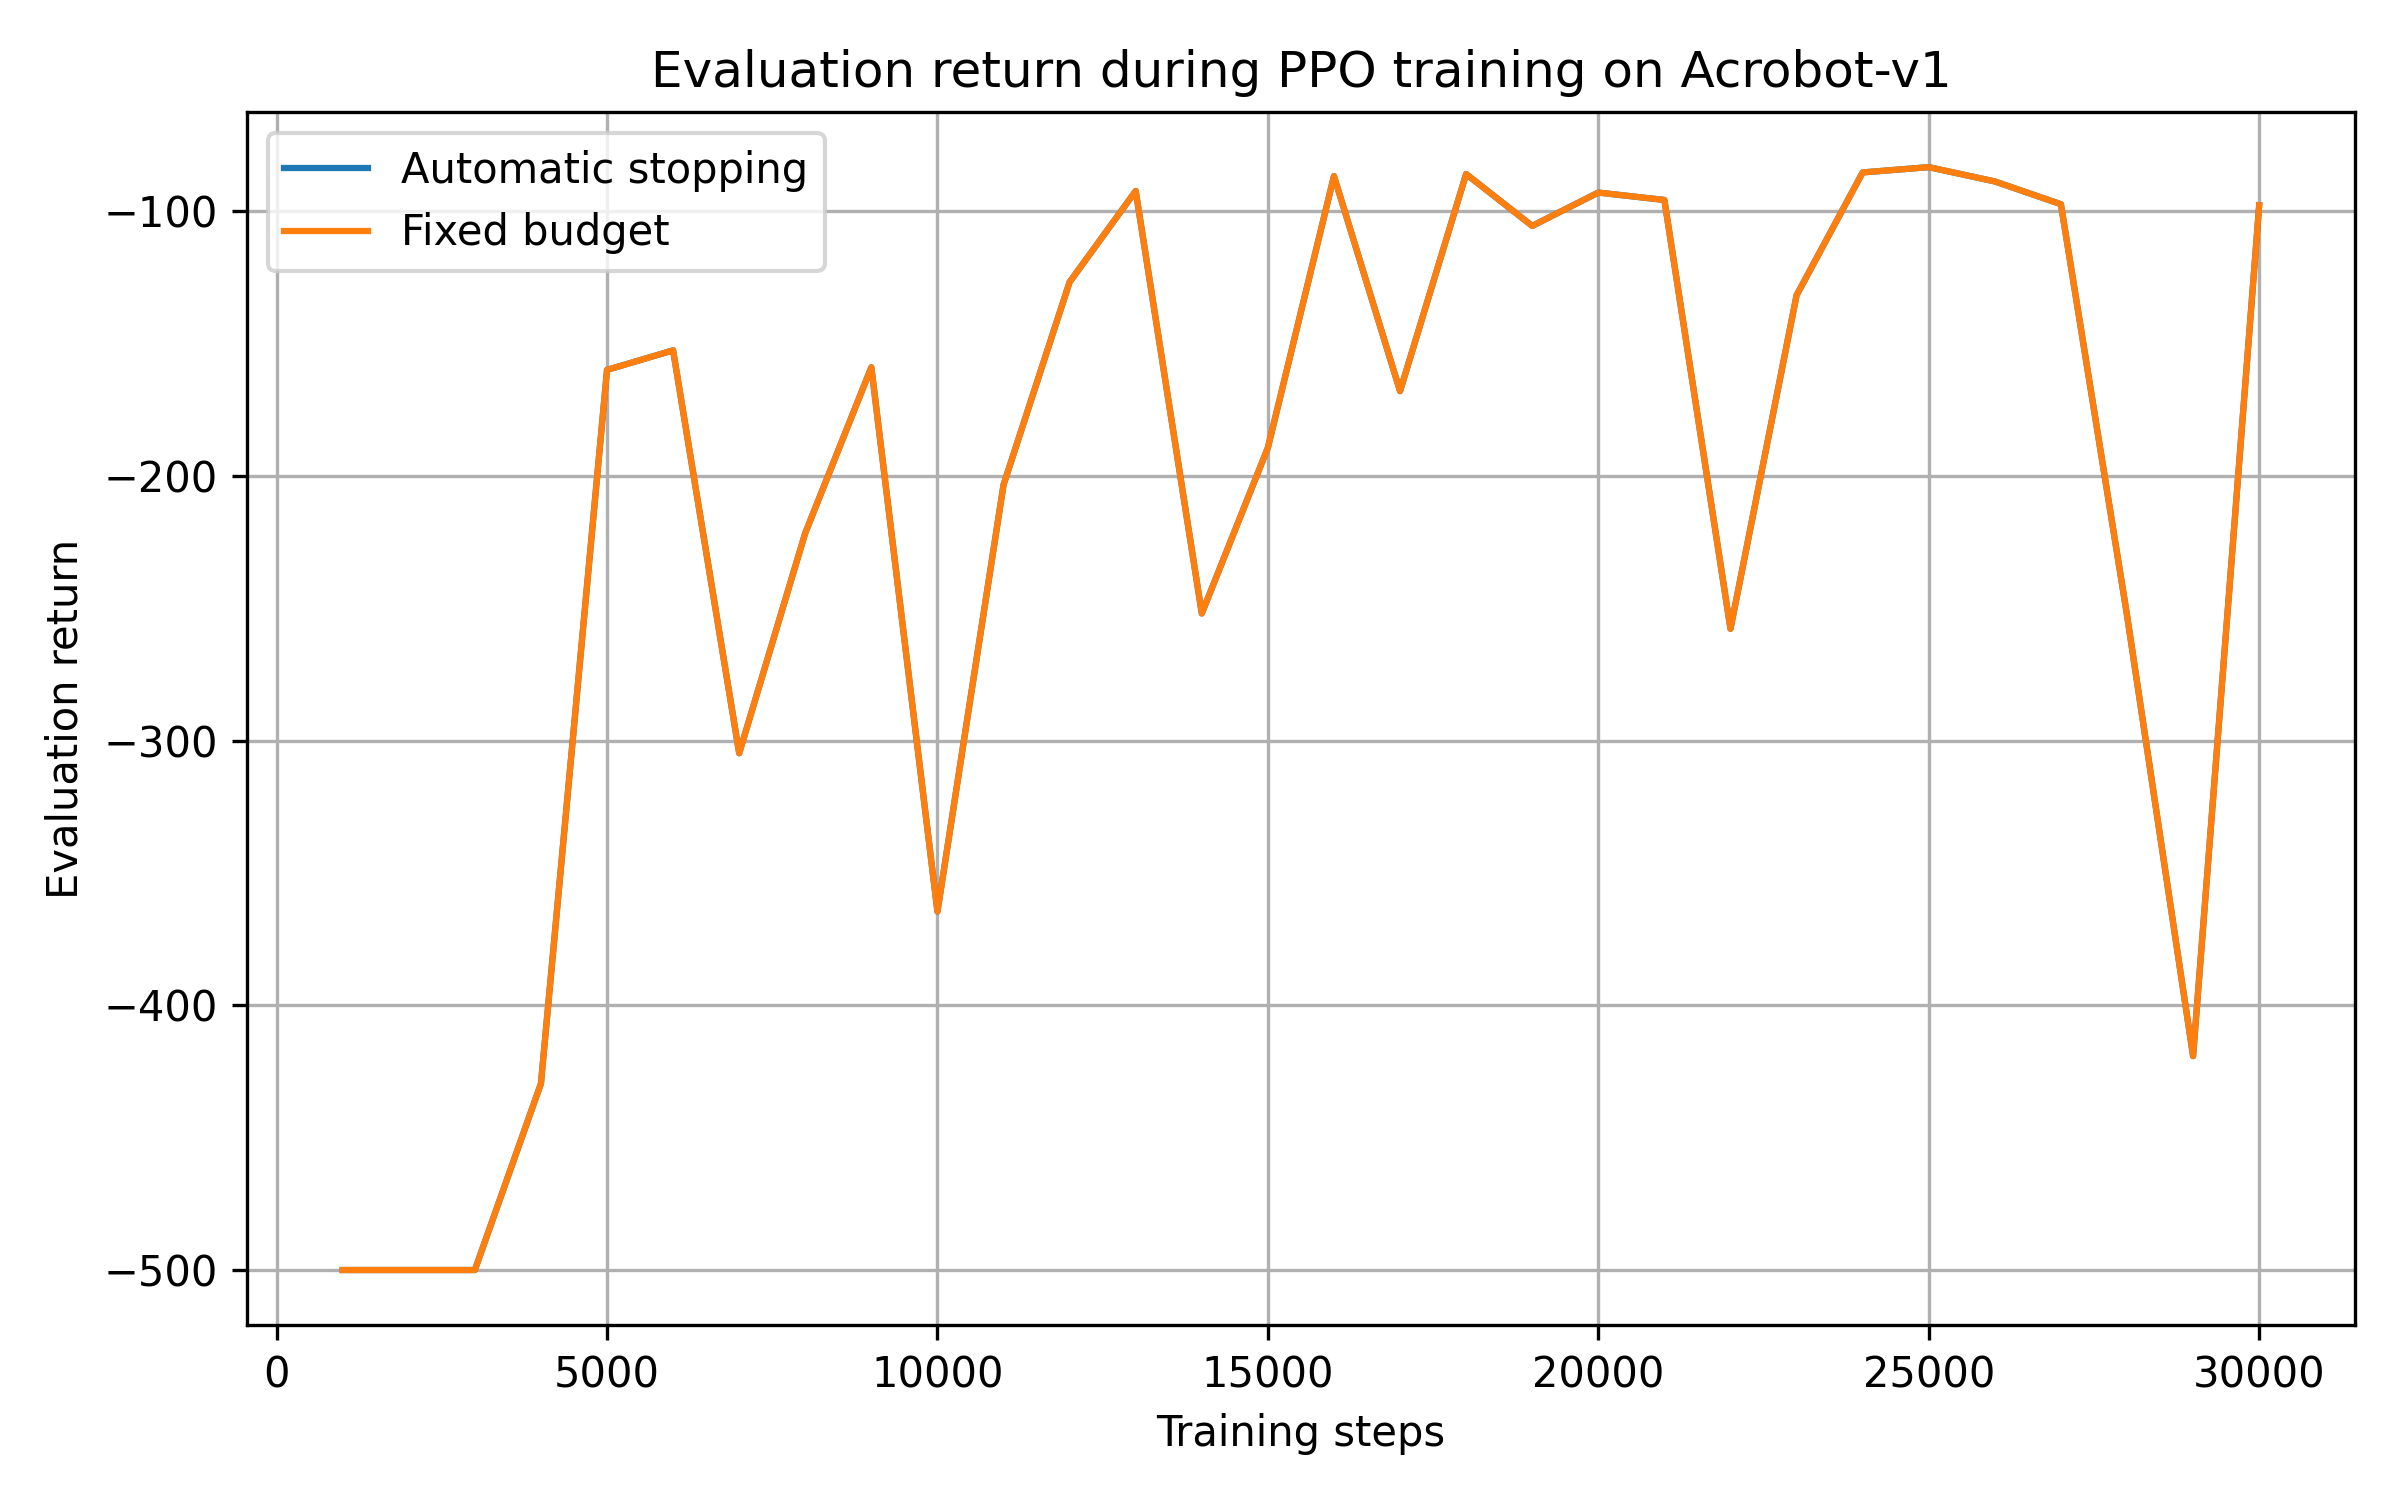
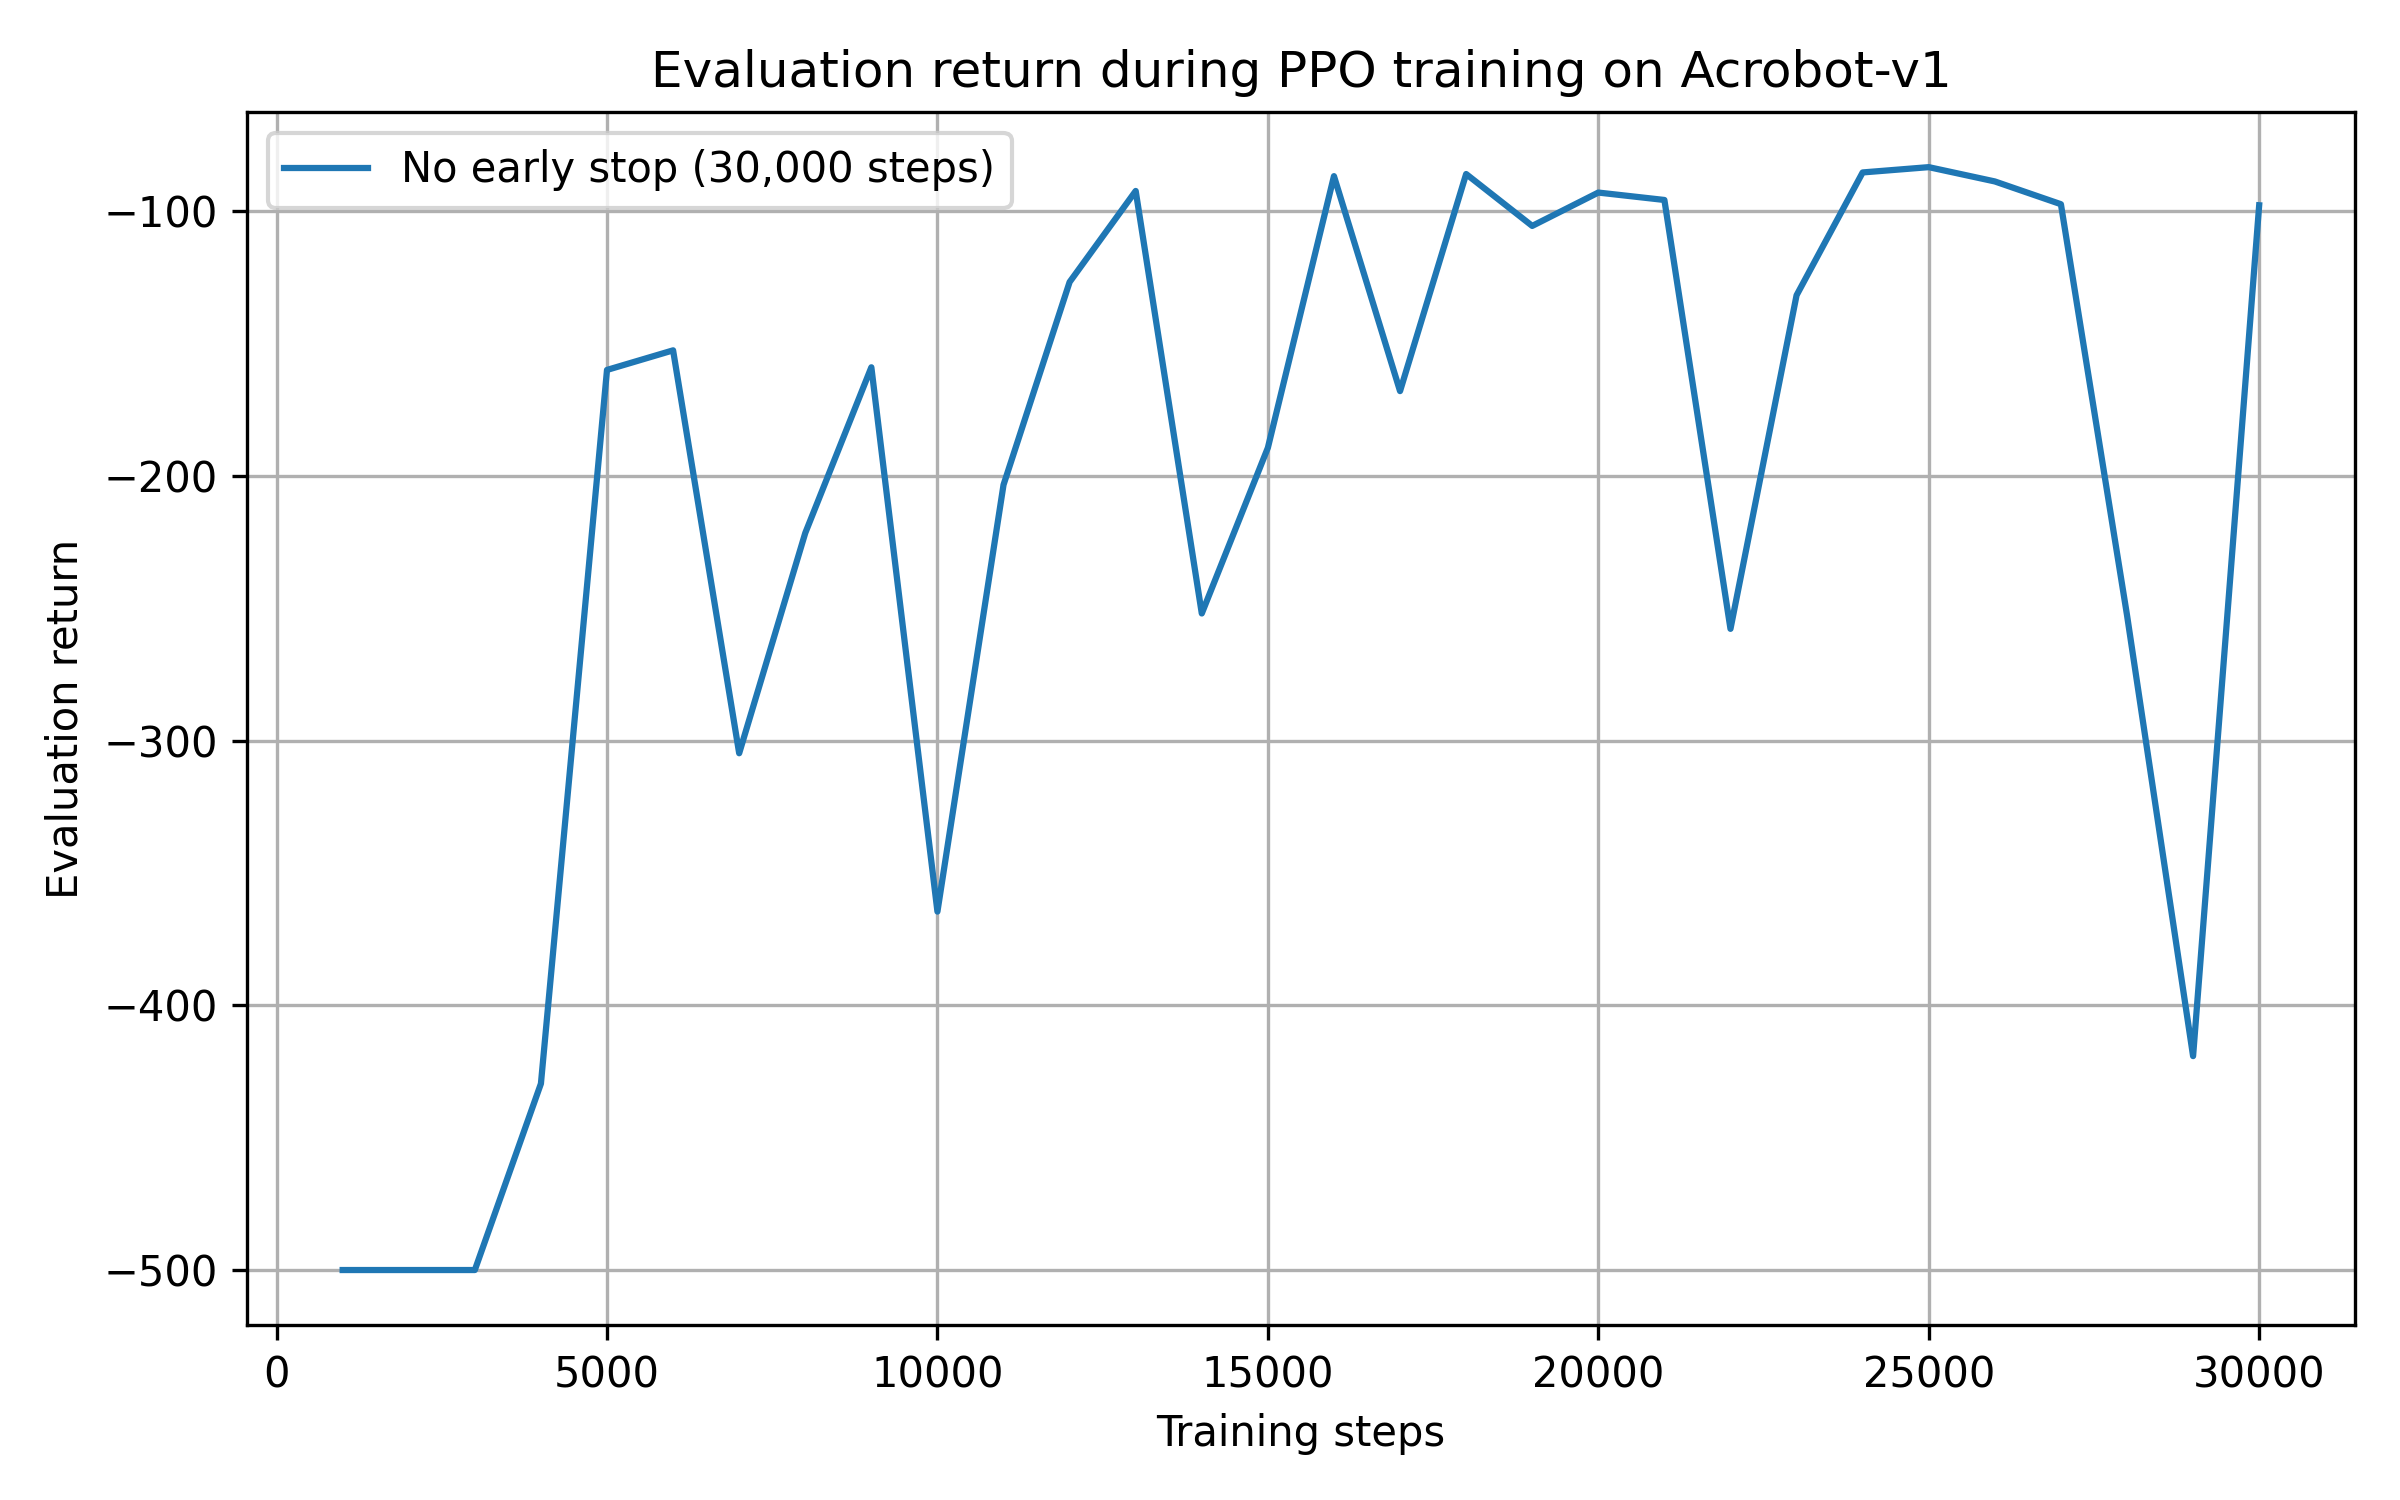
Clarify Acrobot evaluation return plot

diff --git a/analysis/plots_acrobot.py b/analysis/plots_acrobot.py
@@ -34,17 +34,40 @@ def load_results() -> pd.DataFrame:
     return pd.concat(dataframes, ignore_index=True)
 
 
-def plot_metric(df: pd.DataFrame, metric: str, ylabel: str, filename: str) -> None:
+def plot_metric(
+    df: pd.DataFrame,
+    metric: str,
+    ylabel: str,
+    filename: str,
+    single_curve_label: str | None = None,
+) -> None:
     plt.figure(figsize=(8, 5))
 
-    for method, method_df in df.groupby("method"):
+    if single_curve_label is not None:
+        # For Acrobot evaluation return:
+        # automatic stopping did not trigger, so one curve is enough.
+        method_df = df[df["method"] == "Automatic stopping"].copy()
+
+        if method_df.empty:
+            method_df = df[df["method"] == "Fixed budget"].copy()
+
         method_df = method_df.sort_values("timesteps")
 
         plt.plot(
             method_df["timesteps"],
             method_df[metric],
-            label=method,
+            label=single_curve_label,
         )
+
+    else:
+        for method, method_df in df.groupby("method"):
+            method_df = method_df.sort_values("timesteps")
+
+            plt.plot(
+                method_df["timesteps"],
+                method_df[metric],
+                label=method,
+            )
 
     plt.xlabel("Training steps")
     plt.ylabel(ylabel)
@@ -70,6 +93,7 @@ def main() -> None:
         metric="eval_return_mean",
         ylabel="Evaluation return",
         filename="evaluation_return.png",
+        single_curve_label="No early stop (30,000 steps)",
     )
 
     plot_metric(
